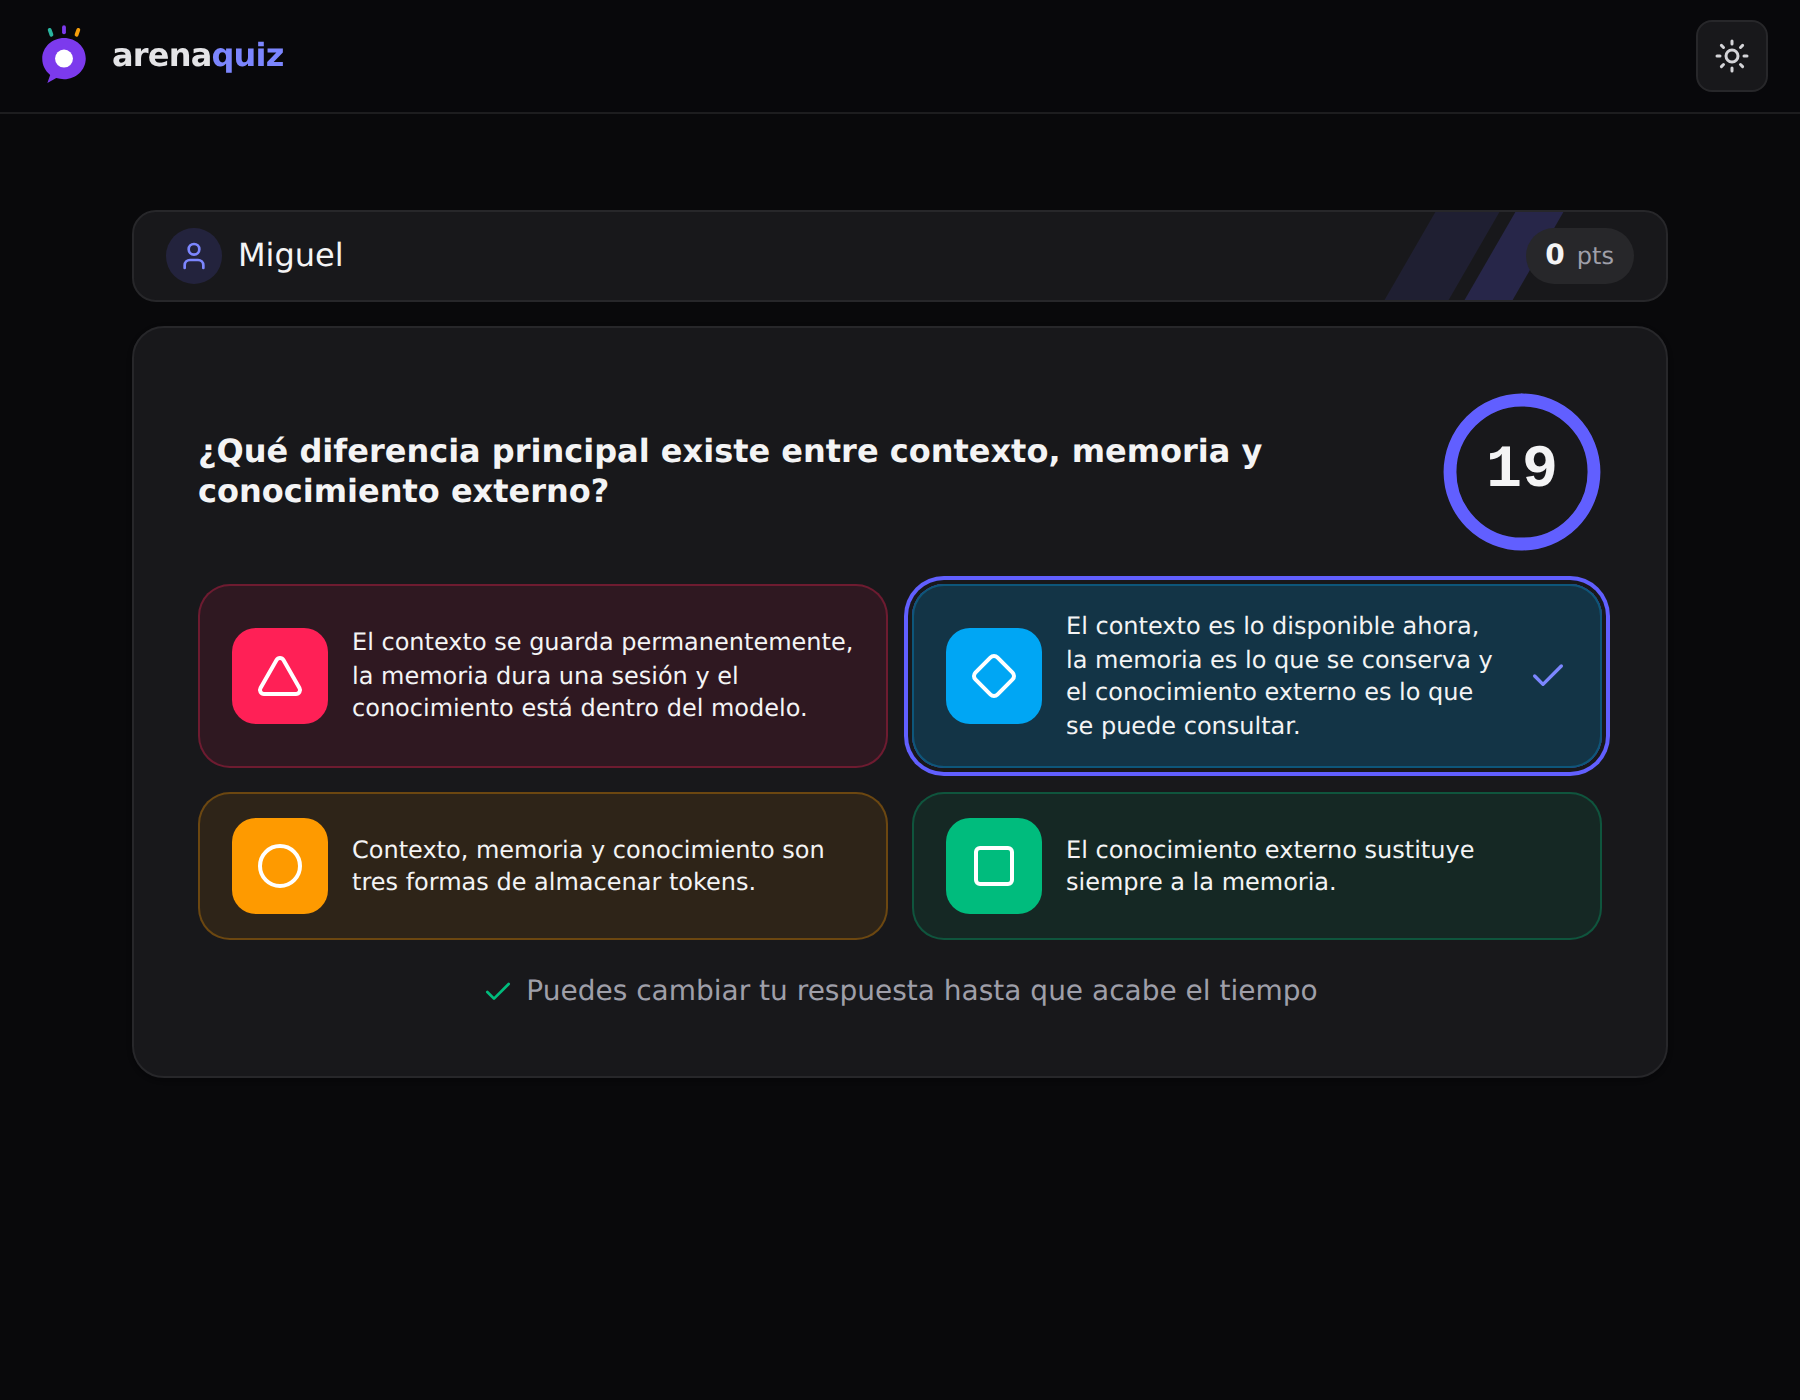
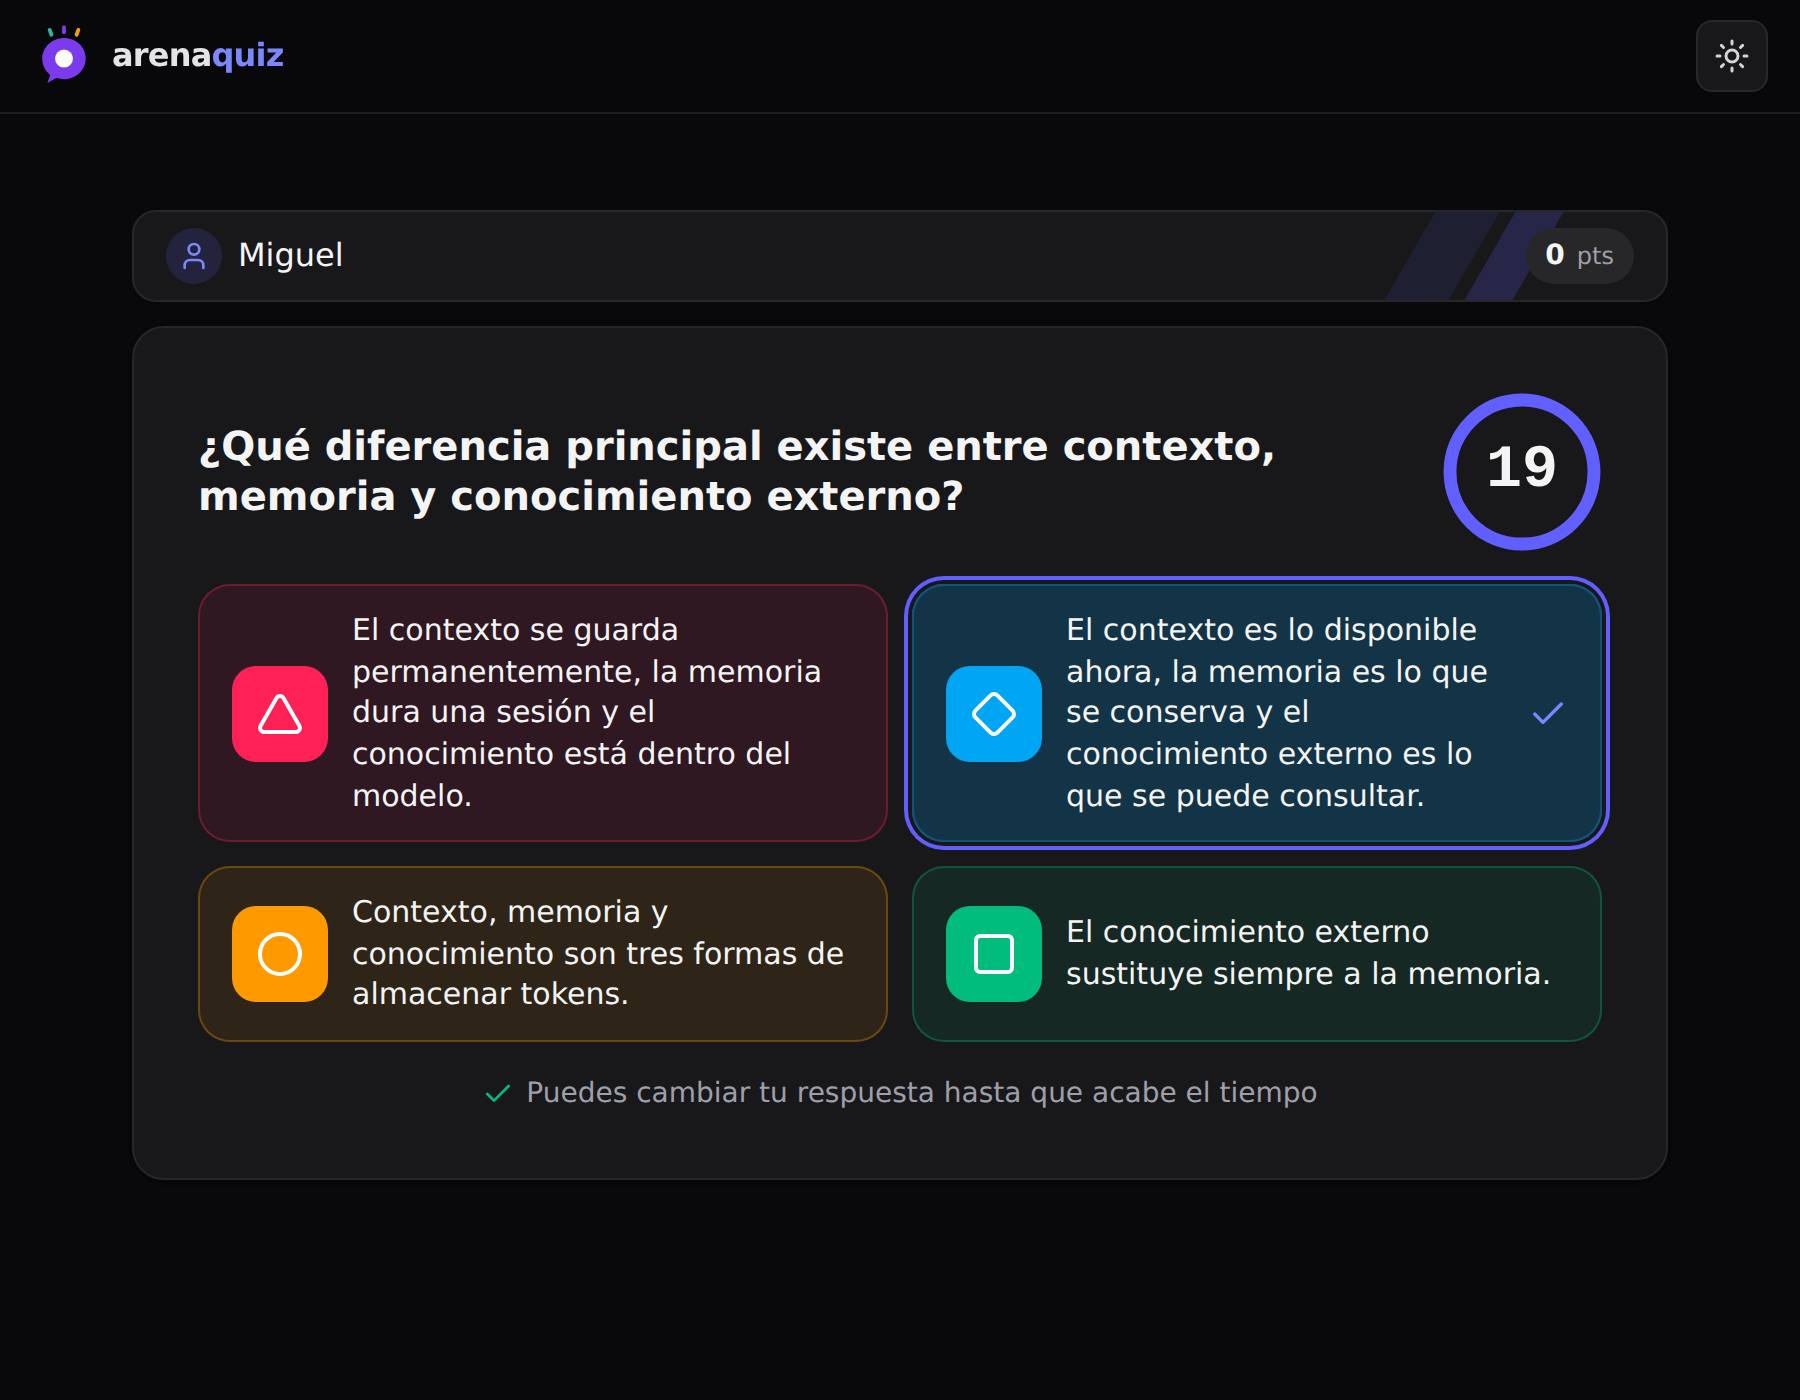
Aumenta un poco el texto de pregunta y respuestas y regenera capturas
El breakpoint md: reducía el texto en escritorio (12px en opciones); ahora
crece de forma progresiva: pregunta 16/18/20px y opciones 13/14/15px.

Claude-Session: https://claude.ai/code/session_01YBAeW5YNLtEYnfQzi9PQcj

Changed region(s): [[0.1244, 0.43, 0.9022, 0.7371], [0.0933, 0.3071, 0.7156, 0.3686], [0.28, 0.7679, 0.7467, 0.7986]]

diff --git a/src/App.jsx b/src/App.jsx
@@ -2380,7 +2380,7 @@ function ParticipantRoom({ room, setRoom, participant, onHome }) {
           {room.status === 'in_question' && question && (
             <div className="space-y-3 sm:space-y-4">
               <div className="flex items-center justify-between gap-3 sm:gap-4">
-                <h3 className="min-w-0 flex-1 break-words text-base font-bold leading-tight sm:text-lg md:text-base">
+                <h3 className="min-w-0 flex-1 break-words text-base font-bold leading-tight sm:text-lg md:text-xl">
                   <NoCopy>{question.title}</NoCopy>
                 </h3>
                 <TimerRing phase={phase} timeLeft={timeLeft} total={room.time_per_question} />
@@ -2416,7 +2416,7 @@ function ParticipantRoom({ room, setRoom, participant, onHome }) {
                       <span className={`flex h-10 w-10 shrink-0 items-center justify-center rounded-xl text-white sm:h-12 sm:w-12 ${solid}`}>
                         <Icon className="h-5 w-5 sm:h-6 sm:w-6" aria-hidden="true" />
                       </span>
-                      <span className="min-w-0 flex-1 break-words text-xs font-medium leading-snug hyphens-auto sm:text-sm md:text-xs">
+                      <span className="min-w-0 flex-1 break-words text-[0.8125rem] font-medium leading-snug hyphens-auto sm:text-sm md:text-[0.9375rem]">
                         <NoCopy>{opt}</NoCopy>
                       </span>
                       {selected && <Check className="h-5 w-5 shrink-0 text-indigo-600 dark:text-indigo-400" aria-hidden="true" />}
